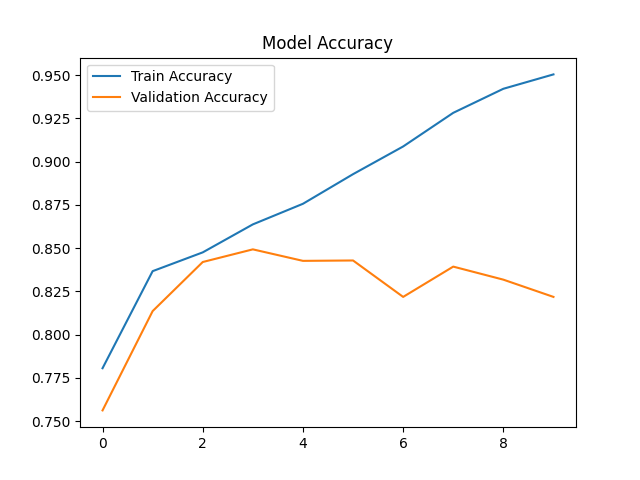
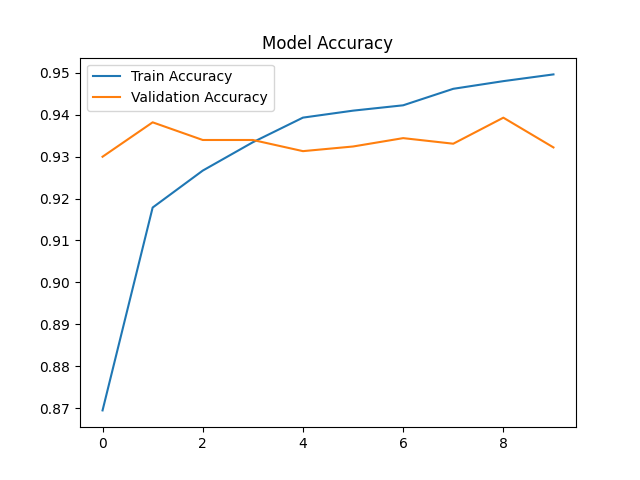
Updated model and Streamlit interface

diff --git a/src/train_transfer_learning.py b/src/train_transfer_learning.py
@@ -1,0 +1,100 @@
+import tensorflow as tf
+from tensorflow.keras.preprocessing.image import ImageDataGenerator
+from tensorflow.keras.applications import MobileNetV2
+from tensorflow.keras.models import Model
+from tensorflow.keras.layers import Dense, Dropout, GlobalAveragePooling2D
+from tensorflow.keras.optimizers import Adam
+import matplotlib.pyplot as plt
+import os
+
+# --- Dataset Paths ---
+train_dir = r'D:\waste_classification\data\DATASET\TRAIN'
+test_dir = r'D:\waste_classification\data\DATASET\TEST'
+
+# --- Data Generators ---
+train_datagen = ImageDataGenerator(
+    rescale=1./255,
+    validation_split=0.2,
+    rotation_range=20,
+    width_shift_range=0.2,
+    height_shift_range=0.2,
+    horizontal_flip=True
+)
+
+test_datagen = ImageDataGenerator(rescale=1./255)
+
+train_generator = train_datagen.flow_from_directory(
+    train_dir,
+    target_size=(224,224),
+    batch_size=32,
+    class_mode='categorical',
+    subset='training'
+)
+
+val_generator = train_datagen.flow_from_directory(
+    train_dir,
+    target_size=(224,224),
+    batch_size=32,
+    class_mode='categorical',
+    subset='validation'
+)
+
+test_generator = test_datagen.flow_from_directory(
+    test_dir,
+    target_size=(224,224),
+    batch_size=32,
+    class_mode='categorical'
+)
+
+# --- Base Model: MobileNetV2 ---
+base_model = MobileNetV2(weights='imagenet', include_top=False, input_shape=(224,224,3))
+for layer in base_model.layers:
+    layer.trainable = False  # Freeze base model layers
+
+# --- Custom Layers ---
+x = base_model.output
+x = GlobalAveragePooling2D()(x)
+x = Dense(128, activation='relu')(x)
+x = Dropout(0.3)(x)
+predictions = Dense(train_generator.num_classes, activation='softmax')(x)
+
+model = Model(inputs=base_model.input, outputs=predictions)
+
+# --- Compile Model ---
+model.compile(optimizer=Adam(learning_rate=0.0001),
+              loss='categorical_crossentropy',
+              metrics=['accuracy'])
+
+model.summary()
+
+# --- Train Model ---
+history = model.fit(
+    train_generator,
+    validation_data=val_generator,
+    epochs=10
+)
+
+# --- Create Folders ---
+os.makedirs('models', exist_ok=True)
+os.makedirs('results', exist_ok=True)
+
+# --- Save Model ---
+model.save('models/waste_mobilenet_model.h5')
+
+# --- Plot Accuracy ---
+plt.plot(history.history['accuracy'], label='Train Accuracy')
+plt.plot(history.history['val_accuracy'], label='Validation Accuracy')
+plt.title('Model Accuracy')
+plt.legend()
+plt.savefig('results/accuracy_plot.png')
+plt.show()
+
+# --- Plot Loss ---
+plt.plot(history.history['loss'], label='Train Loss')
+plt.plot(history.history['val_loss'], label='Validation Loss')
+plt.title('Model Loss')
+plt.legend()
+plt.savefig('results/loss_plot.png')
+plt.show()
+
+print("✅ Training Complete! Model saved as 'models/waste_mobilenet_model.h5'")

diff --git a/src/app.py b/src/app.py
@@ -1,0 +1,32 @@
+import streamlit as st
+import tensorflow as tf
+from tensorflow.keras.preprocessing import image
+import numpy as np
+import os
+
+# Load the trained model
+MODEL_PATH = 'models/waste_mobilenet_model.h5'
+model = tf.keras.models.load_model(MODEL_PATH)
+
+st.title("♻ Waste Classification App")
+st.write("Upload an image to classify whether it’s **Organic** or **Recyclable**")
+
+uploaded_file = st.file_uploader("Choose an image...", type=["jpg", "jpeg", "png"])
+
+if uploaded_file is not None:
+    img = image.load_img(uploaded_file, target_size=(224, 224))
+    st.image(img, caption='Uploaded Image', use_container_width=True)
+    st.write("")
+
+    img_array = image.img_to_array(img)
+    img_array = np.expand_dims(img_array, axis=0)
+    img_array /= 255.0
+
+    predictions = model.predict(img_array)
+    class_names = ['Organic', 'Recyclable']
+
+    predicted_class = class_names[np.argmax(predictions)]
+    confidence = np.max(predictions) * 100
+
+    st.success(f"### 🧩 Prediction: {predicted_class}")
+    st.info(f"Confidence: {confidence:.2f}%")
